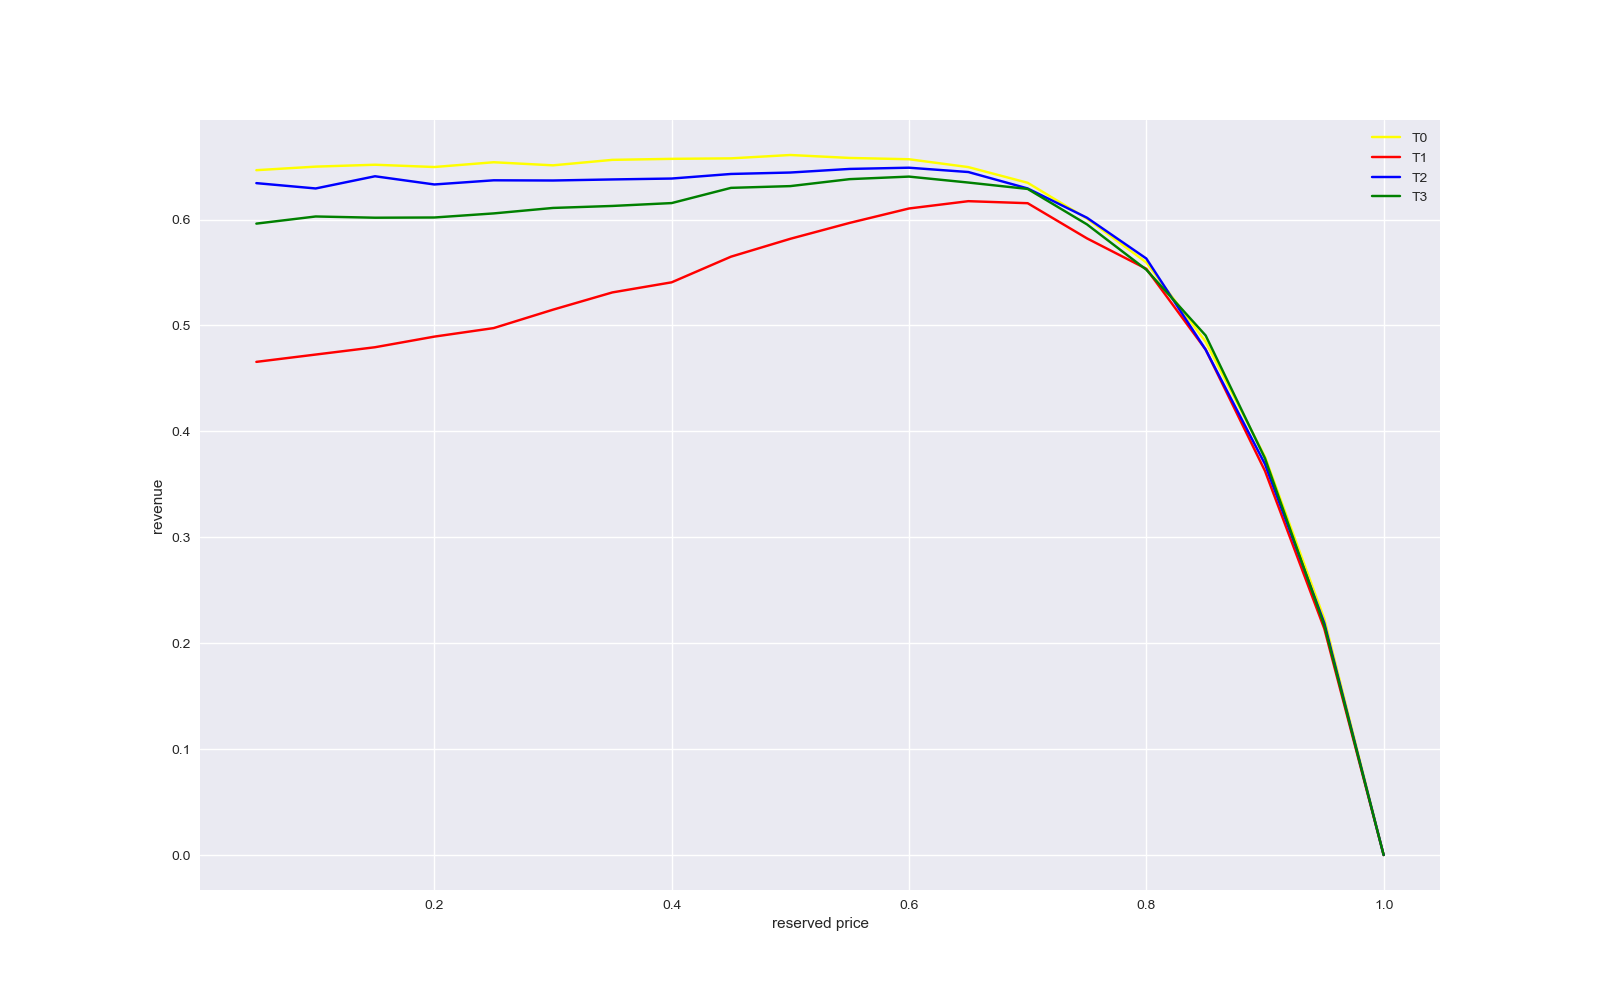
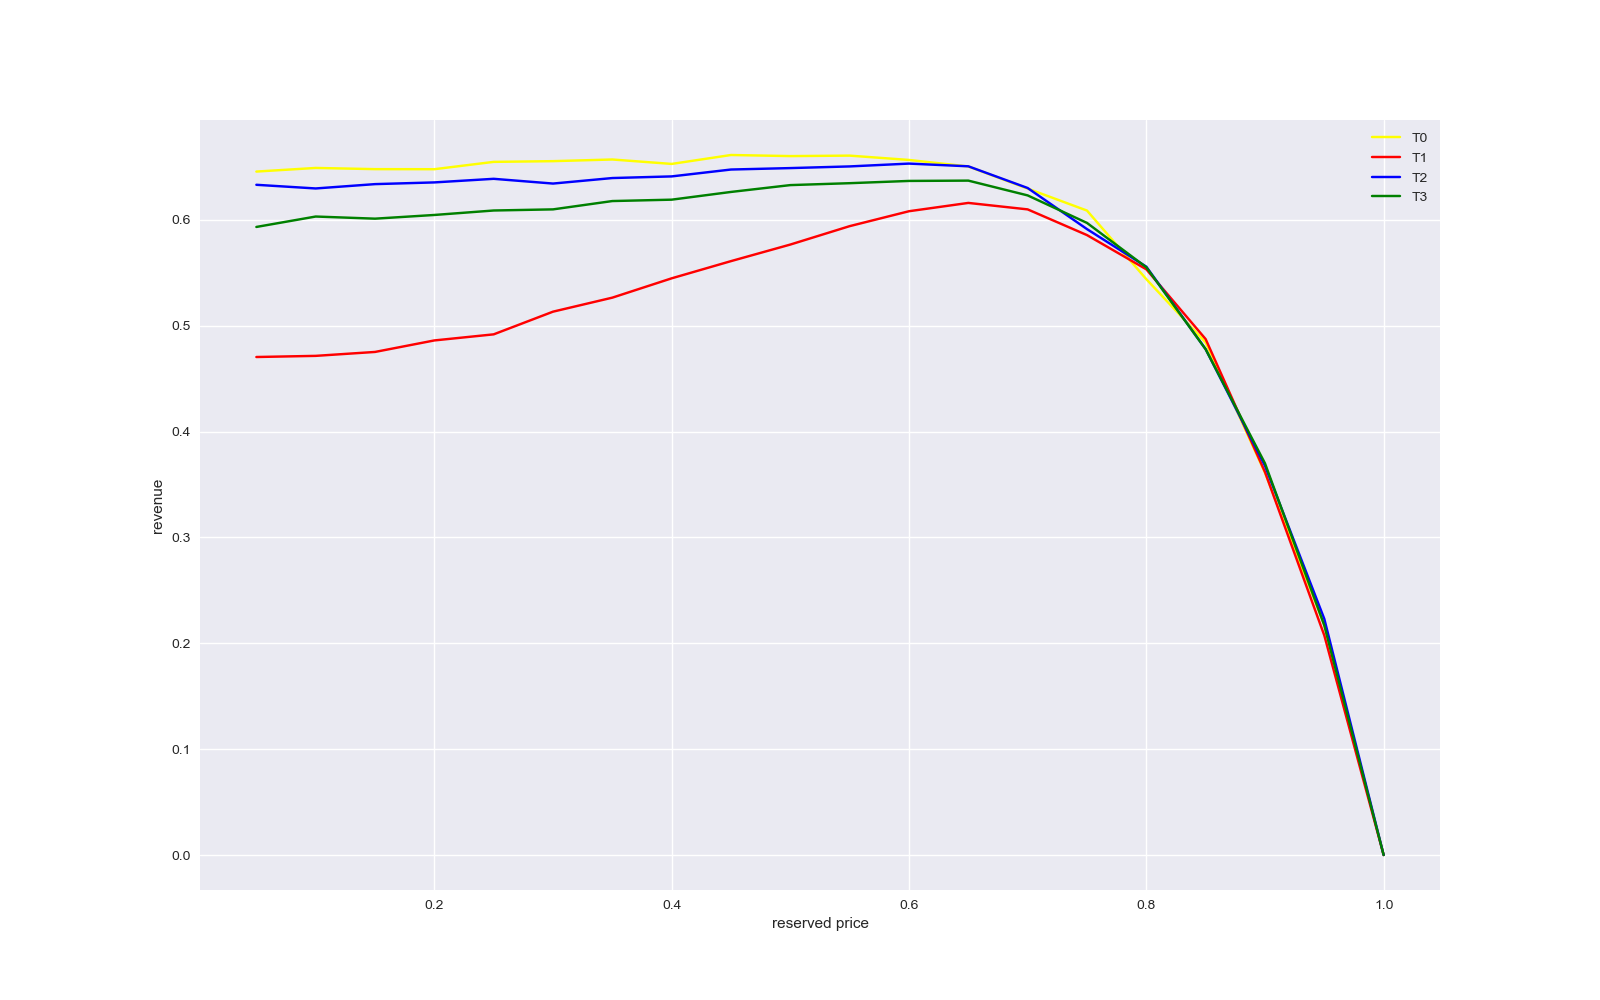
update idm

diff --git a/IDM/idm_verify.py b/IDM/idm_verify.py
@@ -4,7 +4,7 @@ import matplotlib.pyplot as plt
 import random 
 import types
 import collections 
-from tqdm import tqdm
+from tqdm import tqdm 
 
 class IDMVerify:
 
@@ -266,6 +266,27 @@ class IDMVerify:
                 if idx == node:
                     left_vals.append(v)
         return max(max(left_vals), rp)     
+    
+    def optimal_r_theoretical(self, alpha, n, m):
+        '''
+        alpha: vector which contains all alpha_i
+        n: total bidder number 
+        m: all the branches number of the tree 
+        '''
+        c = collections.Counter(alpha)
+        c_sort = [(k, v) for k, v in c.items()]
+        c_sort.sort(lambda x: -x[1])
+        coefs = [x[1] for x in c_sort] + [-1 * (m + n)]
+        roots = np.roots(coefs)
+        update_roots = [1 / x for x in roots]
+        for ur in update_roots:
+            if 0 <= ur <= 1:
+                return ur 
+        raise ValueError('No Optimal Reserved Price!')
+
+    def optimal_r_experimental(self):
+        pass 
+
 
     def main(self, iterations, rp):
         # self.PlotGraph()
@@ -274,11 +295,12 @@ class IDMVerify:
         # rp = 0.6
         for _ in tqdm(range(iterations)):
             vs = self.ValGeneration('uniform', 0, 1, self.cnt - 1)
-            total_rev += self.IDMRev_RP(vs, rp)
-            # _, _, rev = self.IDM_with_rp(vs, rp)
-            # run_rev += rev 
+            # total_rev += self.IDMRev_RP(vs, rp)
+            _, _, rev = self.IDM_with_rp(vs, rp)
+            run_rev += rev 
         # return total_rev / iterations, run_rev / iterations
-        return total_rev / iterations
+        # return total_rev / iterations
+        return run_rev / iterations
     
     def test_rp(self):
         rps = [0.05 * i for i in range(1,21)]
